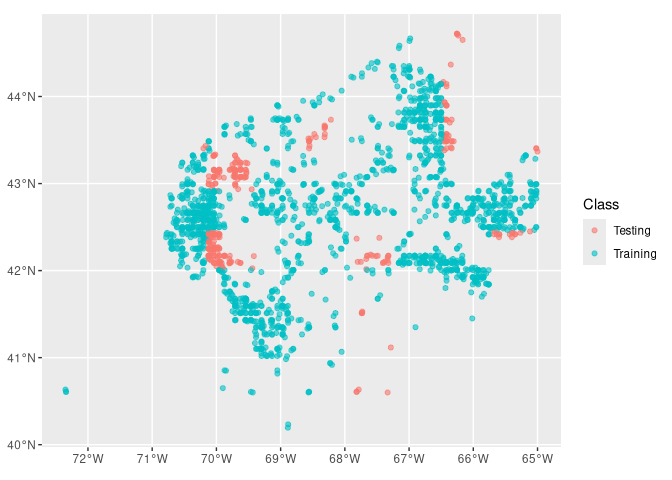
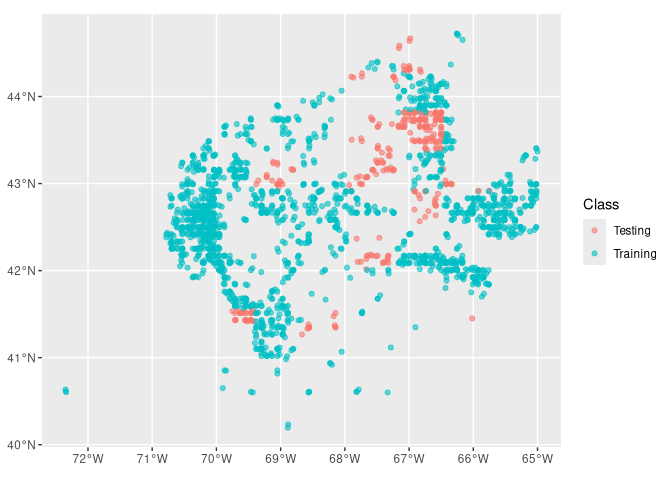
Rerunning my files!

diff --git a/assignments/Wolffish_models.md b/assignments/Wolffish_models.md
@@ -57,16 +57,22 @@ summary statistics:
     ## # A tibble: 4 × 5
     ##   wflow_id       accuracy boyce_cont roc_auc tss_max
     ##   <chr>             <dbl>      <dbl>   <dbl>   <dbl>
-    ## 1 default_glm       0.649      0.840   0.700   0.314
-    ## 2 default_rf        0.703      0.945   0.762   0.433
-    ## 3 default_btree     0.530      0.905   0.726   0.425
-    ## 4 default_maxent    0.709      0.816   0.746   0.441
+    ## 1 default_glm       0.687      0.696   0.740   0.403
+    ## 2 default_rf        0.73       0.761   0.791   0.532
+    ## 3 default_btree     0.72       0.505   0.782   0.507
+    ## 4 default_maxent    0.73       0.768   0.804   0.534
 
 Confusion Matrices:
 ![](Wolffish_models_files/figure-gfm/confusion_matrix-1.png)<!-- -->
 
 And AUC Plots:
 ![](Wolffish_models_files/figure-gfm/auc_plot-1.png)<!-- -->
+
+``` r
+model_fit_varimp_plot(model_fits)
+```
+
+![](Wolffish_models_files/figure-gfm/model_fit_vip-1.png)<!-- -->
 
 \#Examining the Random Forest Using the same testing and training data
 from earlier:
@@ -78,27 +84,27 @@ hyperparameters, which had these metrics associated with them:
     ## # A tibble: 4 × 4
     ##   .metric    .estimator .estimate .config        
     ##   <chr>      <chr>          <dbl> <chr>          
-    ## 1 accuracy   binary         0.703 pre0_mod0_post0
-    ## 2 boyce_cont binary         0.945 pre0_mod0_post0
-    ## 3 roc_auc    binary         0.762 pre0_mod0_post0
-    ## 4 tss_max    binary         0.433 pre0_mod0_post0
+    ## 1 accuracy   binary         0.73  pre0_mod0_post0
+    ## 2 boyce_cont binary         0.761 pre0_mod0_post0
+    ## 3 roc_auc    binary         0.791 pre0_mod0_post0
+    ## 4 tss_max    binary         0.532 pre0_mod0_post0
 
 And then created these predictions:
 
-    ## # A tibble: 296 × 6
+    ## # A tibble: 300 × 6
     ##    class      .pred_class .pred_presence .pred_background  .row .config        
     ##    <fct>      <fct>                <dbl>            <dbl> <int> <chr>          
-    ##  1 presence   background         0.435              0.565     8 pre0_mod0_post0
-    ##  2 presence   background         0.331              0.669     9 pre0_mod0_post0
-    ##  3 background background         0.00417            0.996    13 pre0_mod0_post0
-    ##  4 background background         0.132              0.868    19 pre0_mod0_post0
-    ##  5 background background         0.00566            0.994    22 pre0_mod0_post0
-    ##  6 background background         0.0144             0.986    35 pre0_mod0_post0
-    ##  7 background background         0.00287            0.997    48 pre0_mod0_post0
-    ##  8 background background         0.0963             0.904    54 pre0_mod0_post0
-    ##  9 background background         0.0528             0.947    69 pre0_mod0_post0
-    ## 10 background background         0.246              0.754    73 pre0_mod0_post0
-    ## # ℹ 286 more rows
+    ##  1 presence   background          0.427             0.573     8 pre0_mod0_post0
+    ##  2 background background          0.0607            0.939    14 pre0_mod0_post0
+    ##  3 background background          0.0606            0.939    26 pre0_mod0_post0
+    ##  4 background background          0.248             0.752    27 pre0_mod0_post0
+    ##  5 background background          0.152             0.848    68 pre0_mod0_post0
+    ##  6 background background          0.373             0.627    89 pre0_mod0_post0
+    ##  7 background background          0.0557            0.944    93 pre0_mod0_post0
+    ##  8 background background          0.174             0.826    95 pre0_mod0_post0
+    ##  9 background background          0.0824            0.918    96 pre0_mod0_post0
+    ## 10 background background          0.105             0.895   107 pre0_mod0_post0
+    ## # ℹ 290 more rows
 
 Here is the overall workflow for the random forest model:
 
@@ -113,17 +119,17 @@ Here is the overall workflow for the random forest model:
     ## Ranger result
     ## 
     ## Call:
-    ##  ranger::ranger(x = maybe_data_frame(x), y = y, mtry = min_cols(~9L,      x), num.trees = ~1000L, importance = ~"impurity", num.threads = 1,      verbose = FALSE, seed = sample.int(10^5, 1), probability = TRUE) 
+    ##  ranger::ranger(x = maybe_data_frame(x), y = y, mtry = min_cols(~1L,      x), num.trees = ~2000L, importance = ~"impurity", num.threads = 1,      verbose = FALSE, seed = sample.int(10^5, 1), probability = TRUE) 
     ## 
     ## Type:                             Probability estimation 
-    ## Number of trees:                  1000 
-    ## Sample size:                      1807 
+    ## Number of trees:                  2000 
+    ## Sample size:                      1803 
     ## Number of independent variables:  9 
-    ## Mtry:                             9 
+    ## Mtry:                             1 
     ## Target node size:                 10 
     ## Variable importance mode:         impurity 
     ## Splitrule:                        gini 
-    ## OOB prediction error (Brier s.):  0.23163
+    ## OOB prediction error (Brier s.):  0.223057
 
 \#Partial Dependence Plot
 
